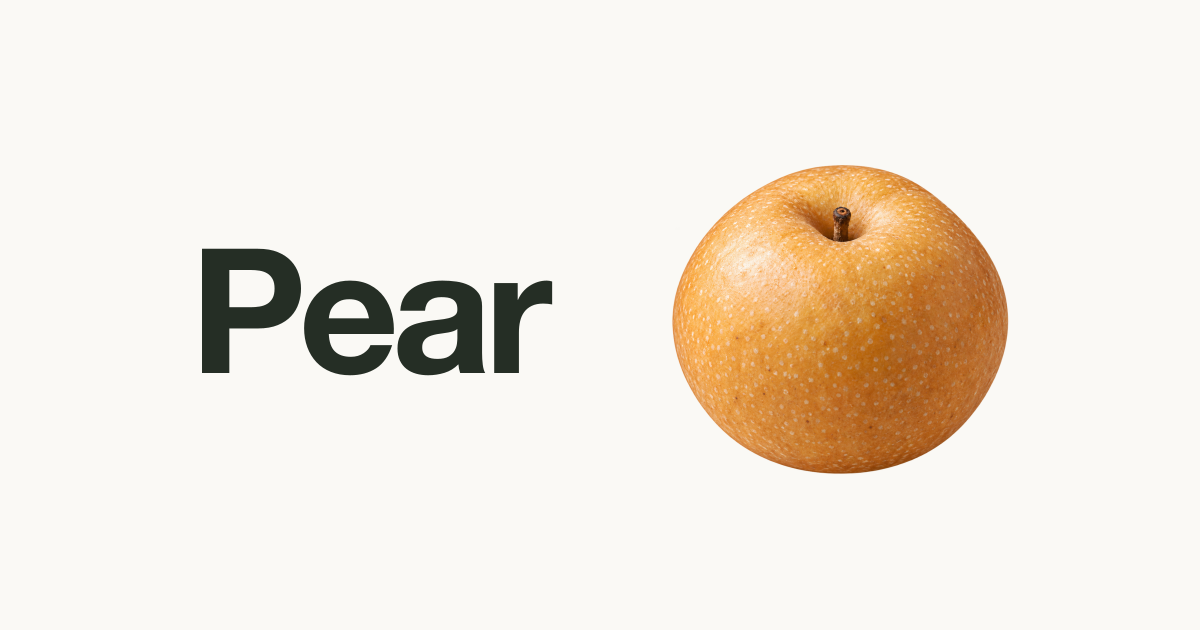
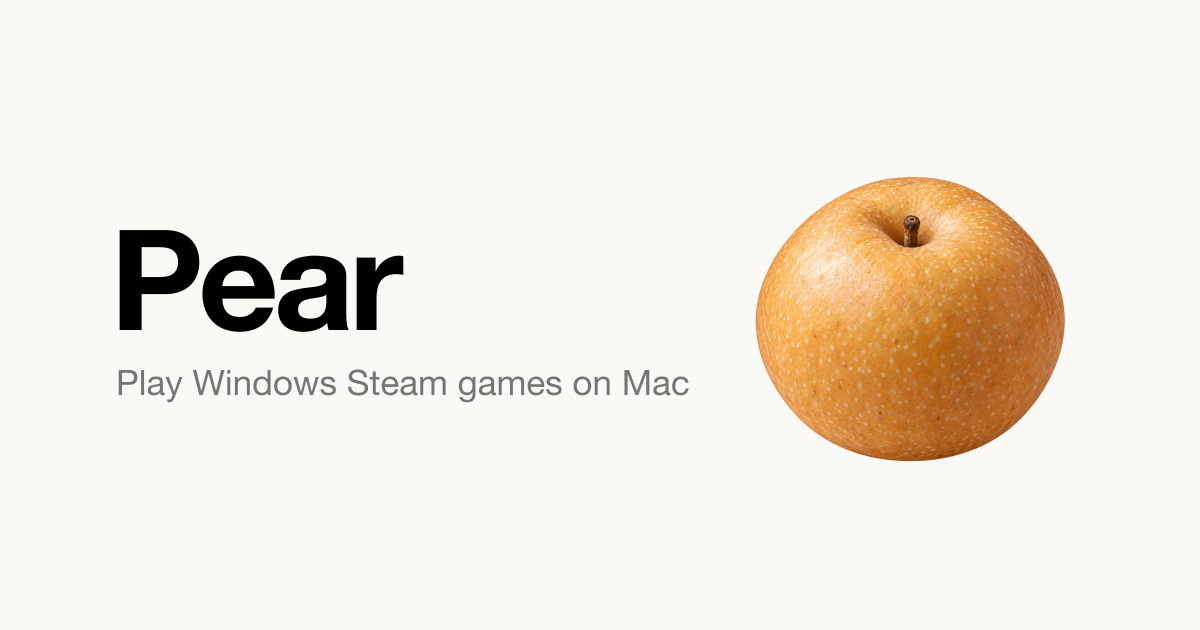
Task #47 Stage 3 + final report: refine sharing image typography

Changed region(s): [[0.0925, 0.2413, 0.8942, 0.754]]

diff --git a/tools/compatibility.py b/tools/compatibility.py
@@ -206,7 +206,7 @@ def demand_label(game):
 def shell(title, content, active='games'):
     e = html.escape
     return f'''<!doctype html>
-<html lang="en"><head><meta charset="utf-8"><meta name="viewport" content="width=device-width,initial-scale=1"><title>{e(title)} · Pear</title><meta name="description" content="Windows games on Mac. Free and open source. Building a Rosetta-free way to play."><meta property="og:type" content="website"><meta property="og:site_name" content="Pear"><meta property="og:title" content="{e(title)} · Pear"><meta property="og:description" content="Windows games on Mac. Free and open source. Building a Rosetta-free way to play."><meta property="og:image" content="https://postmelee.github.io/pear/social-card.png"><meta property="og:image:type" content="image/png"><meta property="og:image:width" content="1200"><meta property="og:image:height" content="630"><meta property="og:image:alt" content="Pear wordmark with a golden Asian pear on the right"><meta name="twitter:card" content="summary_large_image"><meta name="twitter:title" content="{e(title)} · Pear"><meta name="twitter:description" content="Windows games on Mac. Free and open source. Building a Rosetta-free way to play."><meta name="twitter:image" content="https://postmelee.github.io/pear/social-card.png"><meta name="twitter:image:alt" content="Pear wordmark with a golden Asian pear on the right"><meta name="referrer" content="no-referrer"><link rel="icon" type="image/png" href="favicon.png"><link rel="stylesheet" href="style.css"><script src="steam-search.js" defer></script><script src="catalog.js" defer></script></head>
+<html lang="en"><head><meta charset="utf-8"><meta name="viewport" content="width=device-width,initial-scale=1"><title>{e(title)} · Pear</title><meta name="description" content="Windows games on Mac. Free and open source. Building a Rosetta-free way to play."><meta property="og:type" content="website"><meta property="og:site_name" content="Pear"><meta property="og:title" content="{e(title)} · Pear"><meta property="og:description" content="Windows games on Mac. Free and open source. Building a Rosetta-free way to play."><meta property="og:image" content="https://postmelee.github.io/pear/social-card.png?v=20261018"><meta property="og:image:type" content="image/png"><meta property="og:image:width" content="1200"><meta property="og:image:height" content="630"><meta property="og:image:alt" content="Pear — Play Windows Steam games on Mac, with a golden Asian pear on the right"><meta name="twitter:card" content="summary_large_image"><meta name="twitter:title" content="{e(title)} · Pear"><meta name="twitter:description" content="Windows games on Mac. Free and open source. Building a Rosetta-free way to play."><meta name="twitter:image" content="https://postmelee.github.io/pear/social-card.png?v=20261018"><meta name="twitter:image:alt" content="Pear — Play Windows Steam games on Mac, with a golden Asian pear on the right"><meta name="referrer" content="no-referrer"><link rel="icon" type="image/png" href="favicon.png"><link rel="stylesheet" href="style.css"><script src="steam-search.js" defer></script><script src="catalog.js" defer></script></head>
 <body><div class="wrap"><header class="site-header"><a class="brand" href="index.html" aria-label="Pear home"><img src="pear.png" alt="" width="39" height="39">Pear</a><nav aria-label="Main"><a class="{'current' if active=='games' else ''}" href="index.html#games">Games</a><a class="{'current' if active=='download' else ''}" href="download.html">Download</a><a class="{'current' if active=='about' else ''}" href="about.html">About</a><a class="nav-docs" href="https://github.com/postmelee/pear/blob/master/docs/README.md">Docs</a><a class="external nav-github" href="https://github.com/postmelee/pear">GitHub</a></nav></header><main>{content}</main><footer class="site-footer"><span>Pear · Free and open source.</span><div class="footer-links"><a href="about.html#results">How results work</a><a href="reports.json">Open data</a><a class="external" href="https://github.com/postmelee/pear">GitHub</a></div></footer></div></body></html>'''
 
 

diff --git a/mydocs/report/task_m3_47_report.md b/mydocs/report/task_m3_47_report.md
@@ -134,3 +134,16 @@ publication and public byte verification follow integration. Sharing services ma
 retain earlier previews until their caches refresh; no service-specific rendering
 is claimed. Retention: keep the small public asset; generated local site is
 disposable after verification. Private evidence and other tasks are untouched.
+
+## Social-preview revision — 2026-10-18
+
+Applied the approved v3 image: black 140 px Pear title and gray 35 px subtitle
+“Play Windows Steam games on Mac”. The existing pear and favicon are preserved.
+Shared image URLs now include v=20261018 and alternative text includes the subtitle.
+94 catalog/document tests, governance (37 documents, 372 local targets), incremental
+notices against 599c382 and diff checks passed. All six HTML heads and the exact
[1 lines of base64/hex data omitted]
+The requester approved the visual before implementation. Existing Pages workflow
+performs publication after integration; third-party cache refresh remains external.
+No runtime changes. Retain public PNG; generated site is disposable after live
+verification. Private state and other worktrees remain untouched.

diff --git a/mydocs/working/task_m3_47_stage3.md b/mydocs/working/task_m3_47_stage3.md
@@ -176,3 +176,16 @@ publication and public byte verification follow integration. Sharing services ma
 retain earlier previews until their caches refresh; no service-specific rendering
 is claimed. Retention: keep the small public asset; generated local site is
 disposable after verification. Private evidence and other tasks are untouched.
+
+## Social-preview revision — 2026-10-18
+
+Applied the approved v3 image: black 140 px Pear title and gray 35 px subtitle
+“Play Windows Steam games on Mac”. The existing pear and favicon are preserved.
+Shared image URLs now include v=20261018 and alternative text includes the subtitle.
+94 catalog/document tests, governance (37 documents, 372 local targets), incremental
+notices against 599c382 and diff checks passed. All six HTML heads and the exact
[1 lines of base64/hex data omitted]
+The requester approved the visual before implementation. Existing Pages workflow
+performs publication after integration; third-party cache refresh remains external.
+No runtime changes. Retain public PNG; generated site is disposable after live
+verification. Private state and other worktrees remain untouched.

diff --git a/mydocs/orders/20261018.md b/mydocs/orders/20261018.md
@@ -1,0 +1,7 @@
+# Daily Tasks - 2026-10-18
+
+## M3 - Rosetta-based Megabonk Preview
+
+| Issue | Task | Status | Notes |
+|---|---|---|---|
+| #47 | Revise website sharing image | Done | Done: 00:10; approved PNG and six heads verified; 94 tests passed. |
